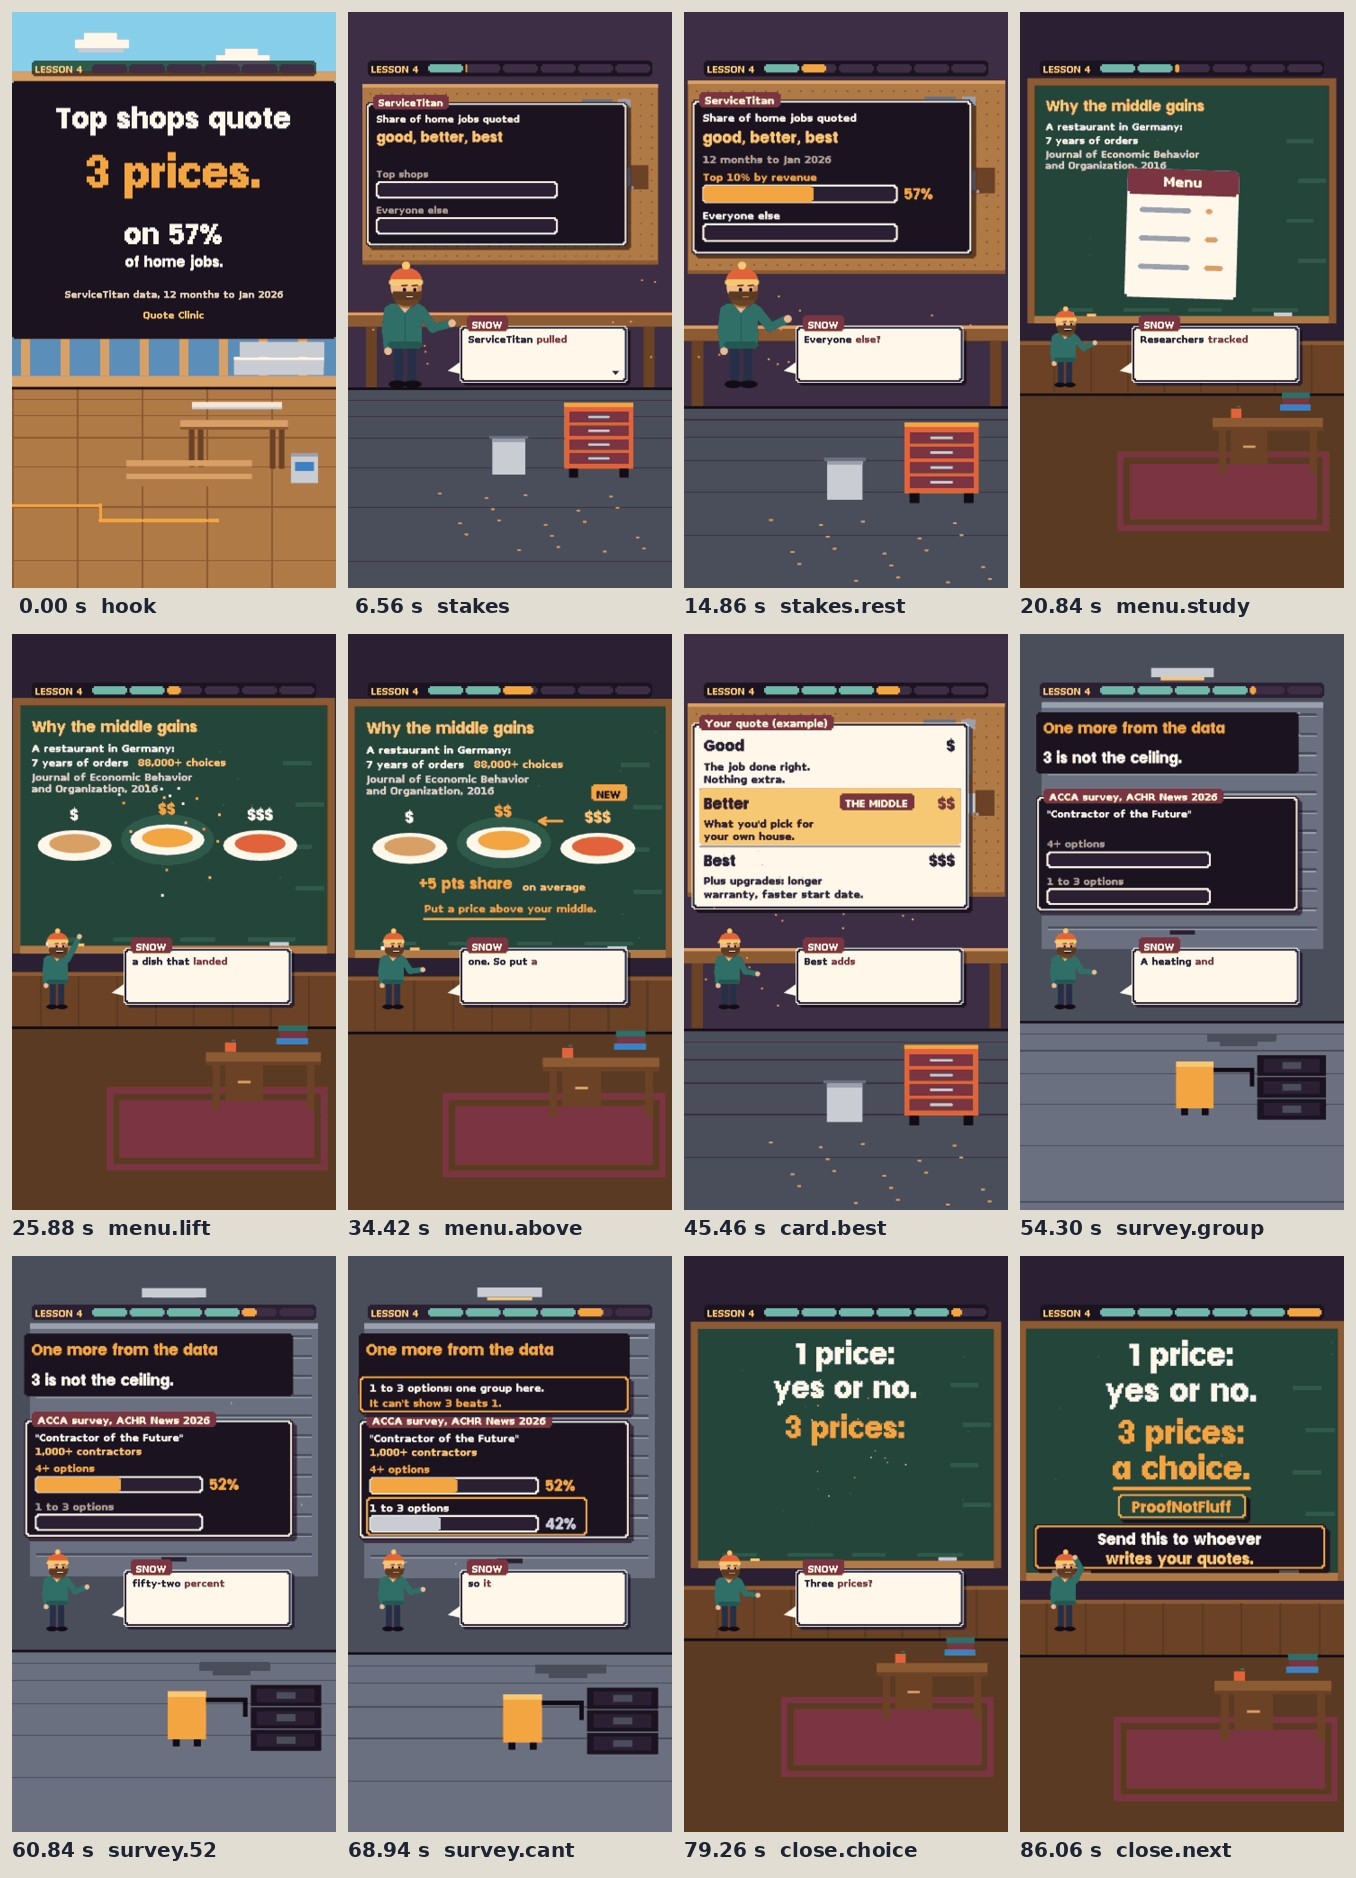
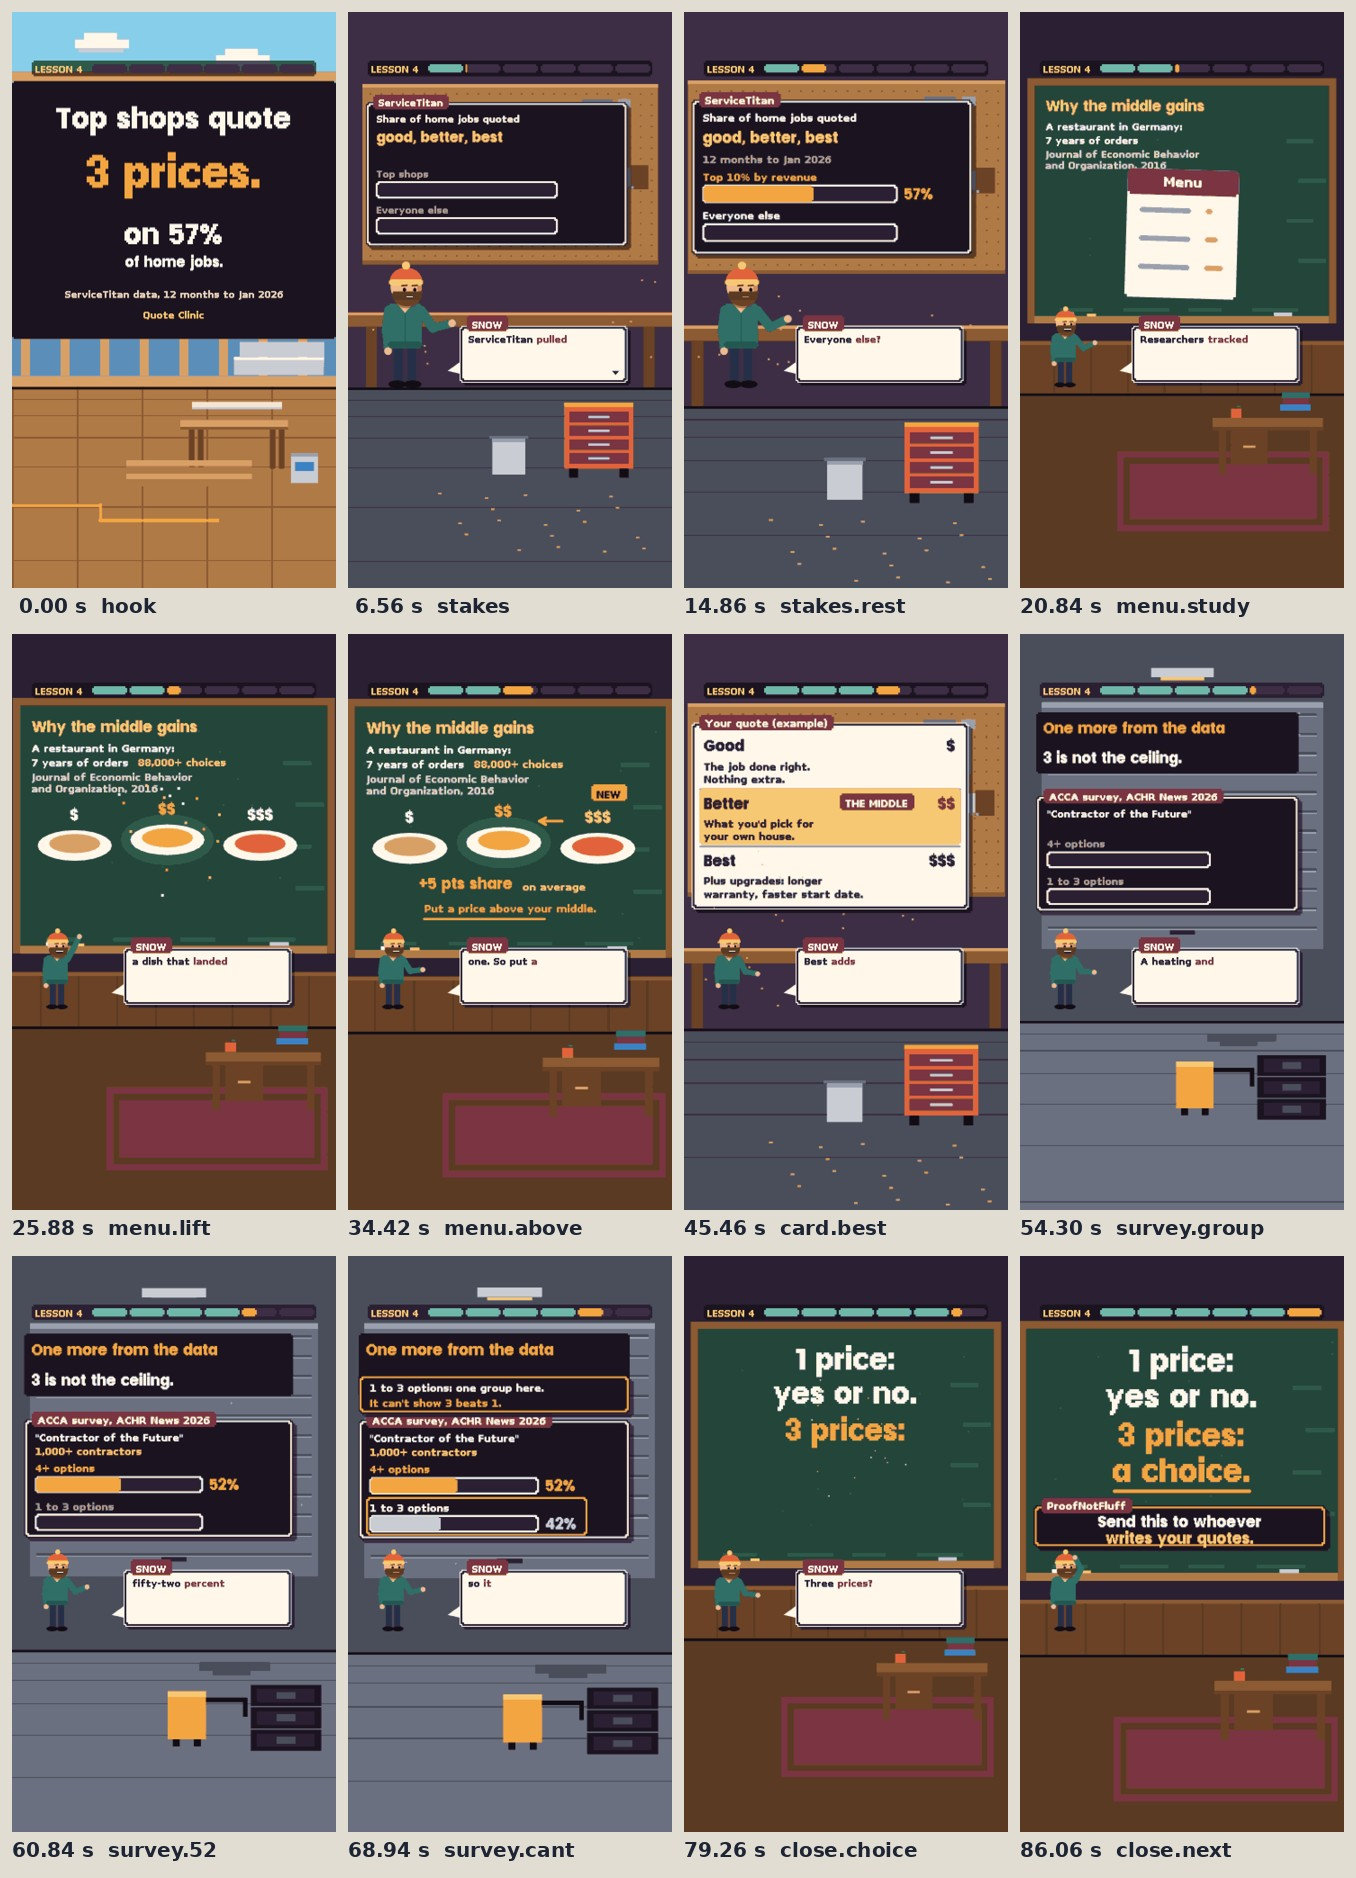
Studio: lesson 3 gates (facts, captions, buyer, critic, golden PASS; design fix round: card lands at once, one left edge on the close, strike after the read), learnings from lessons 2 and 3
Claude-Session: https://claude.ai/code/session_01XMn4eLbiXetQKQj9iFTZsH

Changed region(s): [[0.7434, 0.7103, 0.9912, 0.8647], [0.5575, 0.7103, 0.6814, 0.7721]]

diff --git a/video/studio/videos/2026-10-30-markup-margin/04_scene/scene.js b/video/studio/videos/2026-10-30-markup-margin/04_scene/scene.js
@@ -38,7 +38,8 @@ window.SCENE = {
       const n = k.data.numbers;
       k.room('framing');
       if (T < HOOK_END) {   // the hook card: settled on frame one, host and dialog box hidden, so nothing covers the claim
-        k.shape(k.rectPts(0, 230, 1080, 840, 0), {fill: DARK, line: false});
+        k.shape(k.rectPts(24, 230, 1032, 840, 0), {fill: DARK, line: false});
+        k.shape(k.rectPts(24, 230, 1032, 840, 0), {stroke: '#E6D3BC', lw: 6, line: false});
         const cw = k.measure('RUN THE NUMBERS', {size: 30}) + 36;
         k.chip('Run the numbers', 540 - cw / 2, 276, {size: 30});
         k.slam(`${n.markupPct.shown} markup`, 540, 380, -1, {size: D2, color: CHALK, align: 'center'});
@@ -60,8 +61,8 @@ window.SCENE = {
       k.ctx.restore();
       const tn = k.S('hook.nope');
       if (T >= tn) {   // the assumed 50% is struck out, and the truth is stamped under the card
-        const q = k.easeOut((T - tn) / 0.25), sx = 890 - k.measure(`${n.doubleMarginPct.shown}?`, {size: D1}) - 12;
-        k.shape(k.rectPts(sx, 588, (890 + 12 - sx) * q, 12, 0), {fill: 'accent', line: false});
+        const q = k.easeOut((T - tn - 0.4) / 0.25), sx = 890 - k.measure(`${n.doubleMarginPct.shown}?`, {size: D1}) - 12;   // read it, then strike it
+        if (q > 0) k.shape(k.rectPts(sx, 594, (890 + 12 - sx) * q, 6, 0), {fill: 'accent', line: false});
         stamp(k, 'One third', 640, 790, tn, {rot: -0.07});
       }
       if (T >= k.S('hook.fix')) {
@@ -89,7 +90,7 @@ window.SCENE = {
         k.text('Cost', BX + BW / 2, BASE - HC + 56, {size: BODY, color: DARK, align: 'center', alpha: k.clamp((T - k.S('math.cost')) / 0.4)});
         k.slam(p >= 1 ? n.cost.shown : k.count(n.cost.value, p, {comma: true, prefix: '$'}), 610, 690, tc, {size: D2, color: CHALK, align: 'right', from: 0.6});
         if (p >= 1) k.burst(470, 750, tc + 0.7, {n: 14, colors: ['paper', 'accent2']});
-        k.ctx.save(); slideIn(k, tc + 0.3, 300, 0); k.text('cost', 610, 826, {size: BODY, color: CHALK2, align: 'right'}); k.ctx.restore();
+        k.ctx.save(); slideIn(k, tc + 0.3, -300, 0); k.text('cost', 610, 826, {size: BODY, color: CHALK2, align: 'right'}); k.ctx.restore();
       }
       // the markup slice stacks on top; +$500 counts on "five hundred"
       if (T >= k.S('math.markup')) {
@@ -140,6 +141,9 @@ window.SCENE = {
     why: (k, T) => {
       const n = k.data.numbers;
       k.room('workshop');
+      // cover the room's orange square so it never runs through the title or the cards
+      k.shape(k.rectPts(72, 290, 170, 240, 0), {fill: '#B07A47', line: false});
+      for (let y = 306; y < 530; y += 36) for (let x = 72; x < 240; x += 36) k.shape(k.rectPts(x, y, 6, 6, 0), {fill: '#8C5A33', line: false});
       k.slam('Why the gap?', 96, 276, k.S('why'), {size: D1, color: CHALK, from: 0.5});
       const card = (x, title, top, base, on, res, t0) => {
         if (T < t0) return;
@@ -198,8 +202,8 @@ window.SCENE = {
       if (T >= k.S('double.markup')) {
         const t0 = said(k, /^hundred/, k.S('double.markup')), p = k.lin(t0, t0 + 0.7);
         if (T >= t0) {
-          k.slam(p >= 1 ? n.doubleMarkupPct.shown : k.count(n.doubleMarkupPct.value, p, {suffix: '%'}), 610, 500, t0, {size: D2, color: 'accent', align: 'right', from: 0.6});
-          k.text('markup', 610, 640, {size: BODY, color: CHALK, align: 'right', alpha: k.clamp((T - t0) / 0.3)});
+          k.slam(p >= 1 ? n.doubleMarkupPct.shown : k.count(n.doubleMarkupPct.value, 0.85 + 0.15 * p, {suffix: '%'}), 610, 500, t0, {size: D2, color: 'accent', align: 'right', from: 0.6});
+          k.text('markup', 610, 640, {size: BODY, color: CHALK, align: 'right'});
           if (p >= 1) k.burst(460, 560, t0 + 0.7, {n: 14});
         }
       }
@@ -222,15 +226,16 @@ window.SCENE = {
       k.ctx.save(); slideIn(k, shot ? k.S('formula.shot') : k.S('formula'), -400, 0);
       k.chip(shot ? 'Screenshot this' : 'The part people skip', 96, 270, {size: 30, fill: shot ? 'accent' : 'tag', color: shot ? DARK : 'tagText'});
       k.ctx.restore();
-      if (shot) {
+      const tcard = Math.min(k.S('formula.shot'), k.S('formula') + 0.5);   // the card lands early: no empty board
+      if (T >= tcard) {
         // the formula card: big from "Price equals" until "Want forty percent?", then it steps up to half size (still the
         // same pixel grid) and stays on the board while the worked example is written under it
-        const t0 = k.S('formula.shot'), q = k.clamp(k.pop(t0, 0.35), 0, 1.12), tf = shrinkAt(k);
+        const t0 = tcard, q = k.clamp(k.pop(t0, 0.35), 0, 1.12), tf = shrinkAt(k);
         const sm = 1 - 0.5 * k.easeOut((T - tf) / 0.35), CX = 510, CY = 350;
         k.ctx.save(); k.ctx.translate(CX, CY); k.ctx.scale(q * sm, q * sm); k.ctx.translate(-CX, -CY);
         // the literal line rides on the card's tab while the card is big (the copyable text, same as every caption)
         k.panel2(130, CY, 760, 470, sm > 0.9 ? {border: 'accent', title: 'Price = Cost / (1 - margin)'} : {border: 'accent'});
-        const te = k.S('formula.eq');
+        const te = Math.min(k.S('formula.eq'), tcard + 0.3);
         if (T >= te) {   // written in under a second as "Price equals" starts, so the whole formula holds big for seconds
           const num = 'Cost', den = '1 - margin', fw = Math.max(k.measure(num, {size: D2}), k.measure(den, {size: D2}));
           const a = (t) => k.clamp((T - t) / 0.2);
@@ -261,43 +266,43 @@ window.SCENE = {
       if (T >= k.S('formula.check')) {
         const t0 = k.S('formula.check');
         k.ctx.save(); slideIn(k, t0, 400, 0);
-        k.text(`${n.targetMarginUsd.shown} / ${n.targetPrice.shown} = ${n.targetCheck.shown}`, 320, 852, {size: BODY, color: CHALK});
+        k.text(`${n.targetMarginUsd.shown} / ${n.targetPrice.shown} = ${n.targetCheck.shown}`, 120, 840, {size: D1, color: CHALK});
         k.ctx.restore();
       }
       k.ctx.restore();
-      return {hostPose: k.talking() ? (T < k.S('formula.result') ? 'point' : 'talk') : 'stand', hostAt: [500, 700], hostScale: 0.7};   // a smaller host keeps clear of the card
+      return {hostPose: k.talking() ? (T < k.S('formula.result') ? 'point' : 'talk') : 'stand', hostScale: 0.55, hostX: 150};   // the host steps to the side, clear of the card and the check line
     },
 
     close: (k, T) => {
       k.room('framing');
       const t0 = k.S('close');
-      k.ctx.save(); slideIn(k, t0, 0, 500); k.panel2(84, 290, 852, 190, {fill: DARK, border: 'accent'}); k.ctx.restore();
+      k.ctx.save(); slideIn(k, t0, 0, 500); k.panel2(120, 290, 840, 190, {fill: DARK, border: 'accent'}); k.ctx.restore();
       const tg = said(k, /^margin/, t0 + 0.5);
-      k.slam('Markup is on cost.', 510, 312, t0 + 0.1, {size: D1, color: CHALK, align: 'center', from: 0.7});
-      k.slam('Margin is on price.', 510, 394, tg, {size: D1, color: 'accent', align: 'center', from: 0.7});
-      k.burst(510, 424, tg + 0.12, {n: 12, r: 200});
+      k.slam('Markup is on cost.', 540, 312, t0 + 0.1, {size: D1, color: CHALK, align: 'center', from: 0.7});
+      k.slam('Margin is on price.', 540, 394, tg, {size: D1, color: 'accent', align: 'center', from: 0.7});
+      k.burst(540, 424, tg + 0.12, {n: 12, r: 200});
       if (T >= k.S('close.send')) {
         const ts = k.S('close.send'), tb = ts - 0.3;
-        k.ctx.save(); k.ctx.translate(540, 540); const qb = k.clamp(k.pop(tb, 0.3), 0, 1.15); k.ctx.scale(qb, qb); k.ctx.translate(-540, -540);
-        k.panel2(330, 500, 420, 80, {fill: '#24453A', border: 'accent'}); k.text('ProofNotFluff', 540, 507, {size: D1, color: 'accent', align: 'center'});
+        k.ctx.save(); k.ctx.translate(330, 540); const qb = k.clamp(k.pop(tb, 0.3), 0, 1.15); k.ctx.scale(qb, qb); k.ctx.translate(-330, -540);
+        k.panel2(120, 500, 420, 80, {fill: '#24453A', border: 'accent'}); k.text('ProofNotFluff', 330, 507, {size: D1, color: 'accent', align: 'center'});
         k.ctx.restore();
-        k.burst(540, 540, tb + 0.1, {n: 16});
+        k.burst(330, 540, tb + 0.1, {n: 16});
         k.ctx.save(); slideIn(k, ts, 700, 0);
-        k.panel2(300, 600, 630, 160, {fill: DARK, border: 'accent'});
-        k.text('Send this to whoever', 330, 616, {size: D1, color: CHALK});
-        k.text('sets your prices.', 330, 684, {size: D1, color: CHALK});
-        if (T >= k.S('close.you')) k.sweep(326, 738, k.measure('sets your prices.', {size: D1}) + 8, 8, k.S('close.you'), {color: 'accent2'});
+        k.panel2(120, 600, 840, 160, {fill: DARK, border: 'accent'});
+        k.text('Send this to whoever', 150, 616, {size: D1, color: CHALK});
+        k.text('sets your prices.', 150, 684, {size: D1, color: CHALK});
+        if (T >= k.S('close.you')) k.sweep(146, 738, k.measure('sets your prices.', {size: D1}) + 8, 8, k.S('close.you'), {color: 'accent2'});
         k.ctx.restore();
       }
       if (T >= k.S('close.last')) {
         const tl = k.S('close.last');
         k.ctx.save(); slideIn(k, tl, 700, 0);
-        k.panel2(300, 780, 630, 154, {fill: DARK, border: 'line'});
-        k.text('Your last quote?', 330, 794, {size: D1, color: CHALK});
+        k.panel2(120, 780, 840, 154, {fill: DARK, border: 'line'});
+        k.text('Your last quote?', 150, 794, {size: D1, color: CHALK});
         k.ctx.restore();
-        if (T >= k.S('close.echo')) k.slam('Half, or a third?', 330, 860, k.S('close.echo'), {size: D1, color: 'accent', from: 0.6});
+        if (T >= k.S('close.echo')) k.slam('Half, or a third?', 150, 860, k.S('close.echo'), {size: D1, color: 'accent', from: 0.6});
       }
-      return {hostPose: T >= k.S('close.echo') + 1.2 ? 'wave' : (k.live('close.you') ? 'point' : 'talk'), hostAt: [420, 720]};
+      return {hostPose: T >= k.S('close.echo') + 1.2 ? 'wave' : (k.live('close.you') ? 'point' : 'talk'), hostScale: 0.55, hostX: 150};
     },
   },
 };

diff --git a/video/studio/LEARNINGS.md b/video/studio/LEARNINGS.md
@@ -8,6 +8,9 @@ The studio learns in three loops (Todd, Oct 28, 2026, 3:43 pm: "make this video 
    hook formulas in research/runs/2026-10-28-script-playbook.md; what wins gets written into _shared/voice.md.
 
 ## Rules learned (newest first)
+- The close is one column with one left edge (x 120), the host small at the side; the send box is the one filled element.
+- A board never sits empty more than 1 s: the next line lands on the beat's first word, not the cue's last.
+- Strike a number only after it has been read (0.4 s), and with a thin line that leaves it legible.
 - A hook's claim matches the number it cites: "Top shops quote 3 prices. Not 1." under a 57% stat is an overclaim; say
   "on 57% of home jobs" (facts and golden caught it on lesson 4).
 - A stat box shows its rows (labels and empty tracks) as it opens; a big empty panel reads as broken.
@@ -34,3 +37,9 @@ The studio learns in three loops (Todd, Oct 28, 2026, 3:43 pm: "make this video 
   (fixed; a captions lint is next on IMPROVE). Design 4.14: empty stat boxes, sticker on the bar, ruled lines through
   the header, close left-aligned with a small call to action, stray $ past the card edge -> all fixed.
 - 2026-10-28 markup-margin: transcript flag '$1 ,000.' was a respell miss, not the voice -> respell reads digits as words.
+- 2026-10-28 quote-revive: facts-captions, study line without its population ('In hiring experiments') -> fixed.
+  Design 4.43: the fix line was the faintest text, a tag over the phone edge and the hat, three left edges on the close,
+  empty board while the header waits -> hero line big, one left edge, text in on the beat's first word.
+- 2026-10-28 markup-margin: QA loudness -15.1 (the limiter ate the gain) -> the mix adds the gap back and limits again.
+  Design 4.57: formula box empty 3.5 s, close cards on three edges with the host's hand on one, a room prop through the
+  title, a strike that hid the number it struck -> card lands at once, one left edge, host to the side, strike after 0.4 s.
